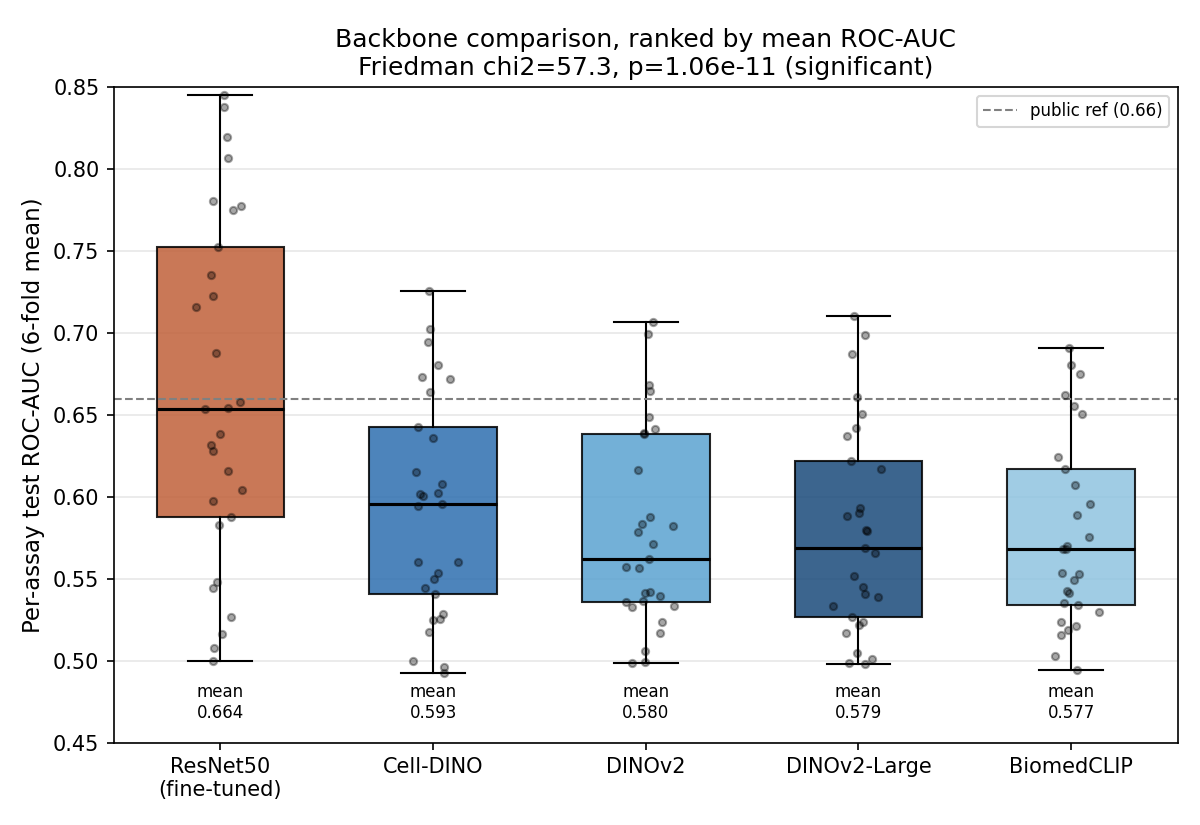
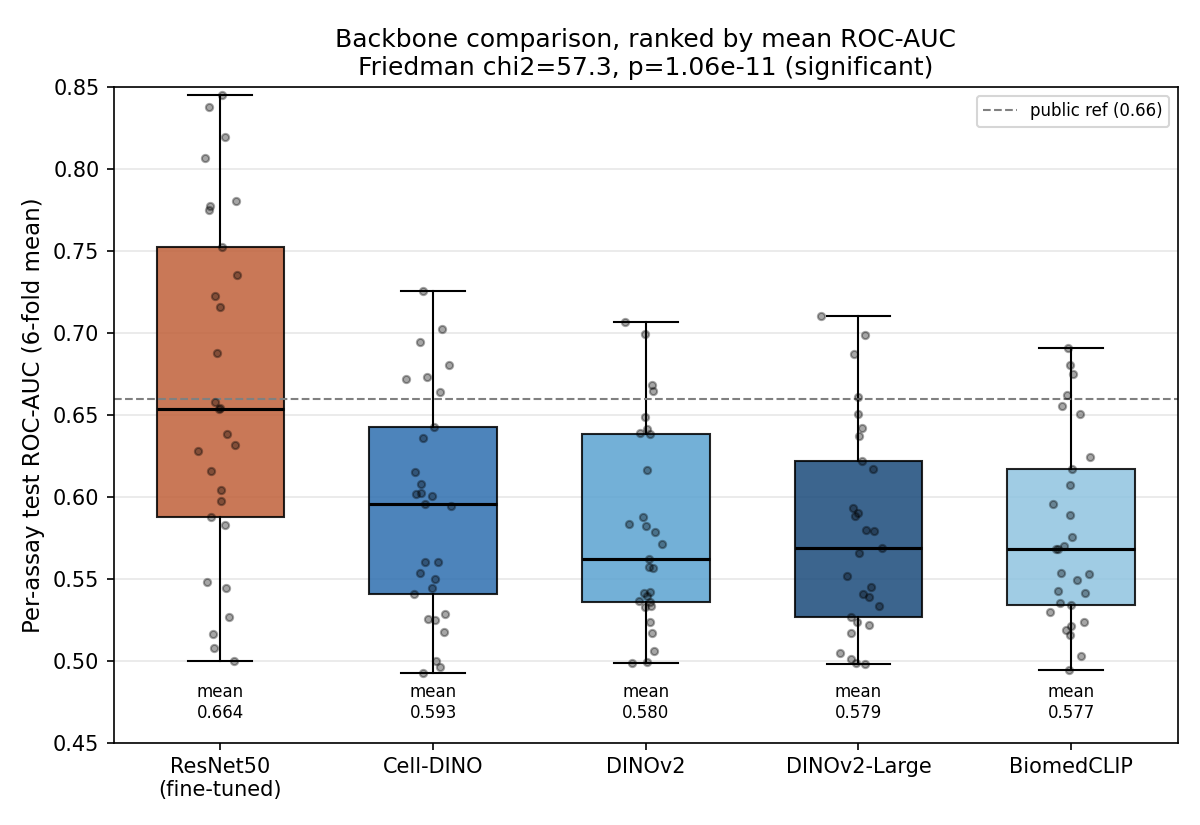
Add Nemenyi p-value heatmap (fig E); refresh benchmark figures

diff --git a/make_benchmark_figures.py b/make_benchmark_figures.py
@@ -168,6 +168,29 @@ if nemenyi is not None:
     print("\nNemenyi pairwise p-values:")
     print(nemenyi.round(4).to_string())
 
+    nem_ord = nemenyi.loc[order, order]
+    fig, ax = plt.subplots(figsize=(7, 6))
+    im = ax.imshow(nem_ord.values, cmap="RdYlGn", vmin=0, vmax=1, aspect="auto")
+    ax.set_xticks(range(len(order))); ax.set_xticklabels(order, rotation=45, ha="right", fontsize=9)
+    ax.set_yticks(range(len(order))); ax.set_yticklabels(order, fontsize=9)
+    for i in range(len(order)):
+        for j in range(len(order)):
+            p = nem_ord.values[i, j]
+            if i == j:
+                txt = "-"
+            else:
+                star = "*" if p < 0.05 else ""
+                txt = f"{p:.3f}{star}"
+            color = "white" if (p < 0.3 or p > 0.8) else "black"
+            ax.text(j, i, txt, ha="center", va="center", fontsize=8, color=color)
+    cbar = fig.colorbar(im, ax=ax, shrink=0.85)
+    cbar.set_label("Nemenyi p-value", fontsize=9)
+    ax.set_title("Nemenyi pairwise significance\n(* = significant at p<0.05)", fontsize=12)
+    plt.tight_layout()
+    plt.savefig(os.path.join(OUTDIR, "fig_E_nemenyi_heatmap.png"), dpi=150)
+    plt.close()
+    print("wrote fig_E_nemenyi_heatmap.png")
+
 # =====================================================================
 # FIGURE C : resolution comparison (224 vs 448) for DINO-family + ResNet
 # =====================================================================
